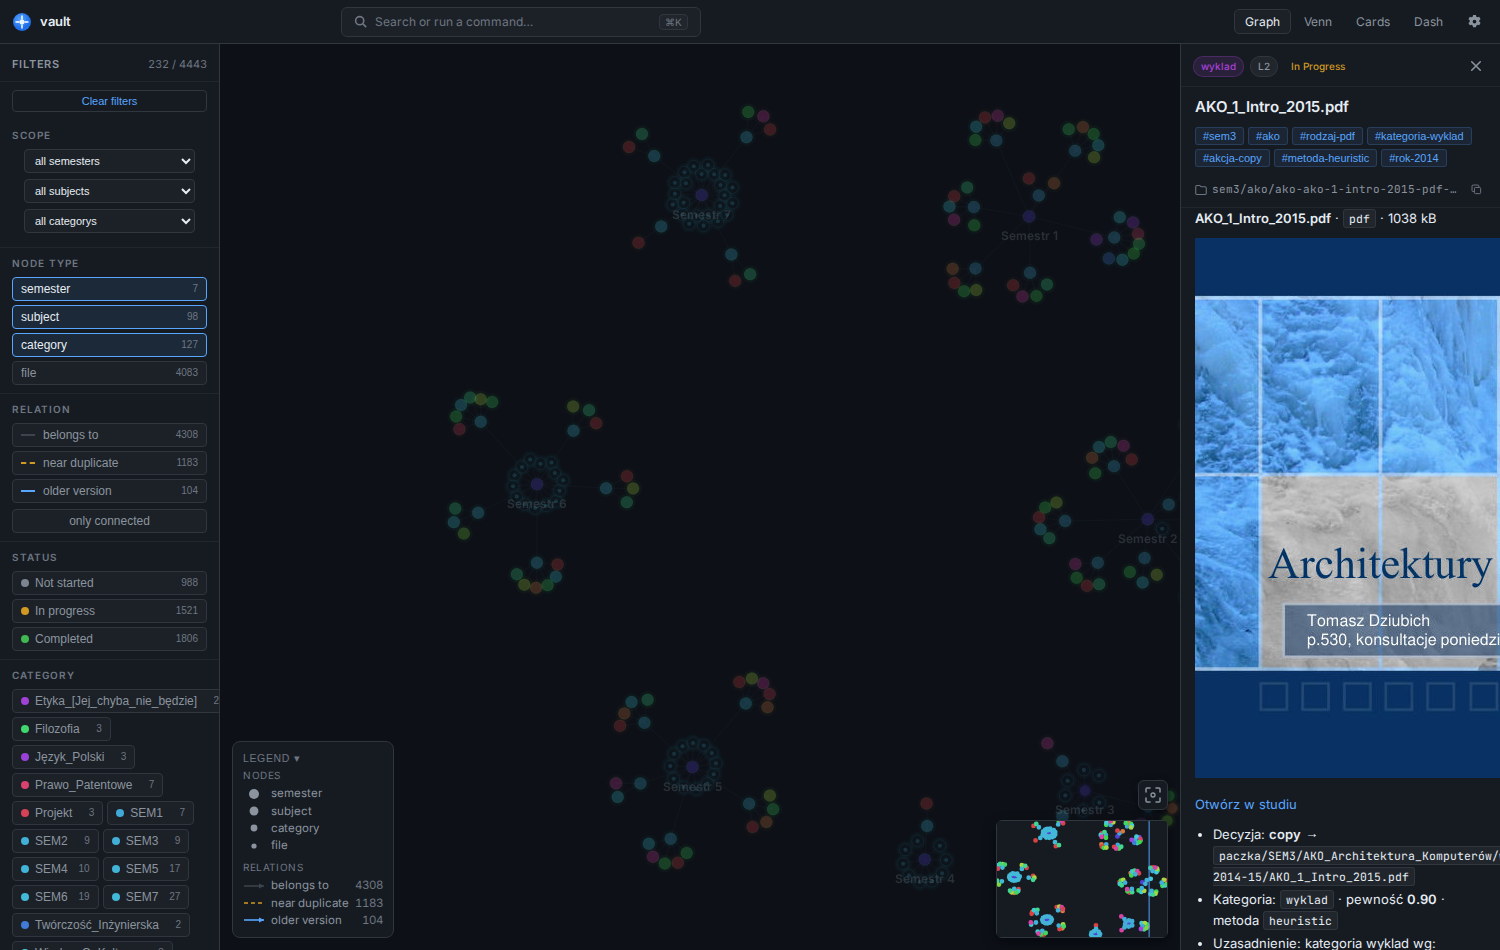
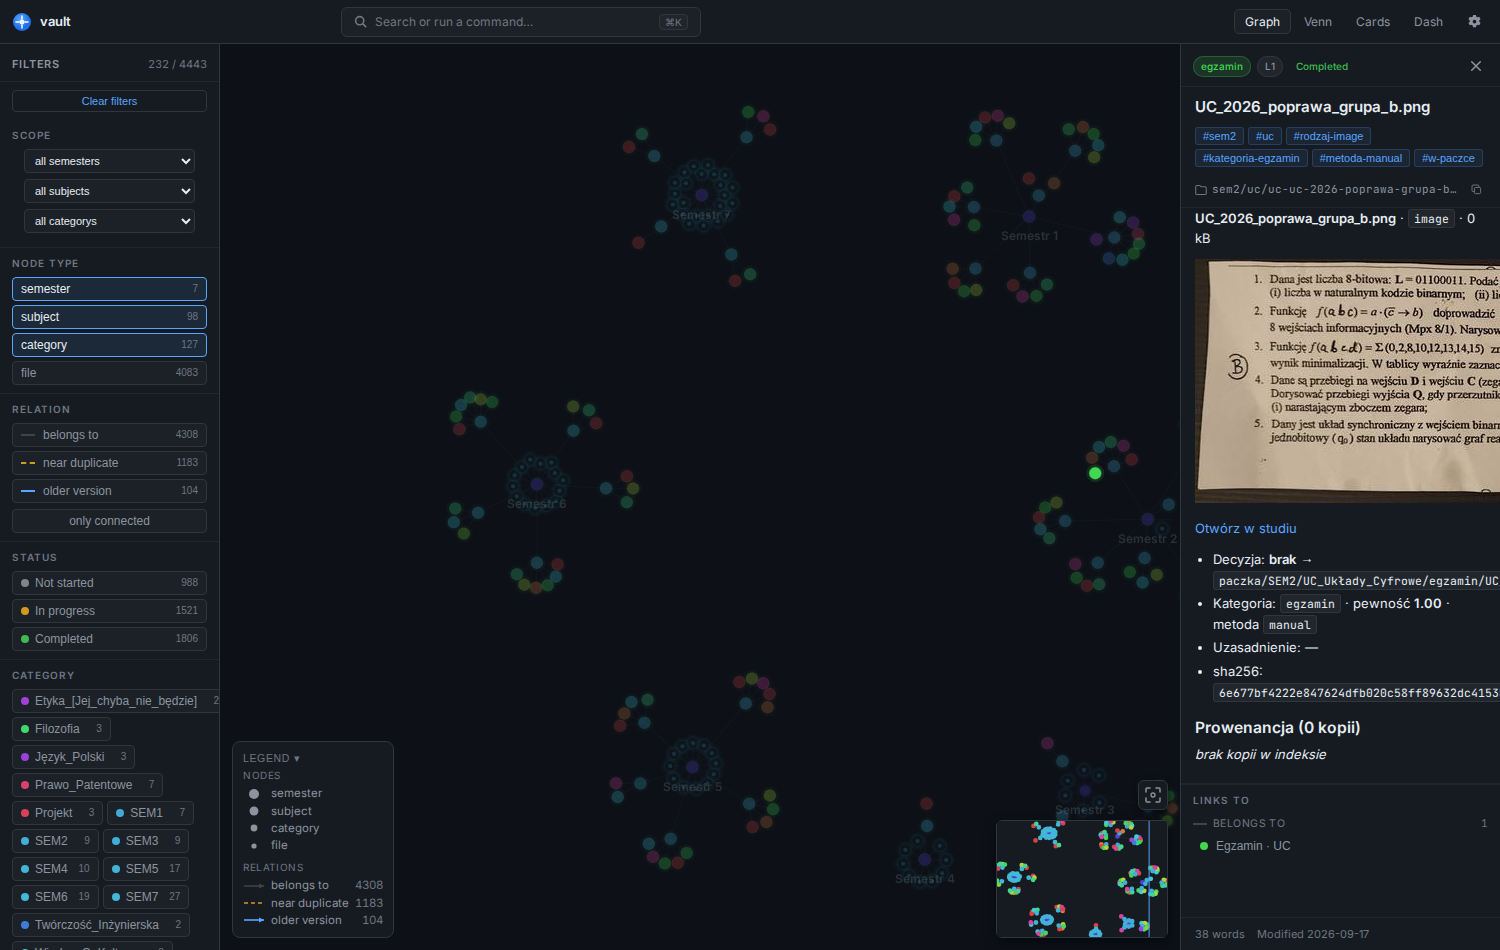
fix(studio): preview material that lives only in the package
Reported from the phone: most previews work, some come up as a broken image.

Not random — exactly the 890 contents with no row in `files`, the ones that used
to be titled with a sha prefix. They sit only in the package, and the preview was
looking for the file in the source tree alone. `preview.package_copy` now falls
back to the target path from the decision, through the same containment helper:
an entry climbing out of the package repo is still refused, not read (with a test).
Checked on real data: 6 of 6 previously dead previews now render, including the
`UC_2026_poprawa_grupa_b.png` from the report.

Also: a cut-off text now says so. The graph note ends with `…` and a
"fragment — całość w studiu" line (839 notes), and the preview API returns
`text_truncated`, on which the decision panel adds "… to tylko początek pliku".
Eight lines without that note read like the whole file.

Worth remembering for future preview tests: the fixture owns the shas `a`–`f` × 64,
so reusing one makes `source_copies` return someone else's file and the test checks
something other than its name promises.

Claude-Session: https://claude.ai/code/session_01DJeTgEcmeih3PWGXkw9Fph

Changed region(s): [[0.7973, 0.0611, 1.0, 1.0], [0.7053, 0.4884, 0.736, 0.5189]]

diff --git a/organizer/studio/web/src/components/TextPreview.svelte b/organizer/studio/web/src/components/TextPreview.svelte
@@ -14,9 +14,11 @@
     language?: string | null;
     /** Nazwa pliku i rodzaj treści — podpis nad tekstem, żeby wiadomo było, co to. */
     label?: string | null;
+    /** Czy to tylko początek pliku. Urwany tekst ma wyglądać na urwany. */
+    truncated?: boolean;
   }
 
-  let { text, language = null, label = null }: Props = $props();
+  let { text, language = null, label = null, truncated = false }: Props = $props();
 
   let html = $state<string | null>(null);
 
@@ -41,6 +43,9 @@
   <pre class="text-head"><code class="hljs"
       >{#if html}{@html html}{:else}{text}{/if}</code
     ></pre>
+  {#if truncated}
+    <p class="cut">… to tylko początek pliku</p>
+  {/if}
 </div>
 
 <style>
@@ -71,6 +76,11 @@
     text-transform: uppercase;
     letter-spacing: 0.06em;
     font-size: 10px;
+  }
+  .cut {
+    margin: 0;
+    color: var(--muted);
+    font-size: 11px;
   }
   .text-head {
     margin: 0;

diff --git a/organizer/studio/web/src/components/DecisionPanel.svelte b/organizer/studio/web/src/components/DecisionPanel.svelte
@@ -320,6 +320,7 @@
             text={preview.text_head}
             language={preview.text_language}
             label={current.filename ?? preview.content_kind}
+            truncated={preview.text_truncated}
           />
         {:else if preview && preview.preview_kind === 'none'}
           <div class="no-preview">
@@ -338,7 +339,11 @@
         {#if preview?.text_head && imageUrl}
           <details class="text-toggle">
             <summary>głowa tekstu</summary>
-            <TextPreview text={preview.text_head} language={preview.text_language} />
+            <TextPreview
+              text={preview.text_head}
+              language={preview.text_language}
+              truncated={preview.text_truncated}
+            />
           </details>
         {/if}
       </figure>

diff --git a/organizer/studio/web/src/lib/api.ts b/organizer/studio/web/src/lib/api.ts
@@ -249,6 +249,8 @@ export interface Preview {
   has_text: boolean;
   /** Język do kolorowania składni albo `null` — ustala backend, nie widok. */
   text_language: string | null;
+  /** Czy pokazany tekst jest urwany — widok ma to powiedzieć, nie udawać całości. */
+  text_truncated: boolean;
   has_image: boolean;
   /** Co widok ma narysować: 'page' (strona PDF), 'image', 'text', 'none'.
    *  Rodzaj ustala backend — front nie zgaduje po rozszerzeniu. */

diff --git a/organizer/tests/test_studio_preview.py b/organizer/tests/test_studio_preview.py
@@ -126,6 +126,61 @@ def workspace(tmp_path):
 
 
 @pytest.fixture
+def packaged(workspace):
+    """Treść, która leży WYŁĄCZNIE w paczce — bez ani jednego wiersza w `files`.
+
+    Tak wygląda 890 pozycji ground truth: materiał trafił do paczki dawno temu i nigdy
+    nie był indeksowany jako plik źródłowy. W grafie ich podgląd był zepsutym obrazkiem,
+    bo szukaliśmy pliku wyłącznie w drzewie źródeł (zgłoszone 2026-09-24).
+    """
+    # Własne sha, nieużywane przez pozostałe pozycje fixture'u — inaczej `source_copies`
+    # zwróciłoby cudzy plik i test badałby coś innego, niż nazwa obiecuje.
+    sha = "9" * 64
+    cel = "paczka/SEM3/AKO_X/egzamin/skan.png"
+    (workspace.target_repo / "paczka" / "SEM3" / "AKO_X" / "egzamin").mkdir(parents=True)
+    Image.new("RGB", (48, 24), (12, 34, 56)).save(workspace.target_repo / cel)
+
+    conn = db.connect(workspace.work_db)
+    db.upsert_content(conn, {"sha256": sha, "content_kind": "image"})
+    db.upsert_classification(conn, {
+        "sha256": sha, "semester": 3, "subject_key": "AKO", "category": "egzamin",
+        "target_relative_path": cel, "is_outdated": 0, "classification_method": "manual",
+        "confidence": 1.0, "run_id": "ground_truth", "decided_at": "2026-09-20T00:00:00Z",
+    })
+    conn.commit()
+    conn.close()
+    return sha
+
+
+def test_material_living_only_in_the_package_still_has_a_preview(client, packaged) -> None:
+    body = client.get(f"/api/preview/{packaged}").json()
+
+    assert body["preview_kind"] == "image"
+    assert body["has_image"] is True
+
+    response = client.get(f"/api/preview/{packaged}/image")
+    assert response.status_code == 200
+    assert response.headers["content-type"].startswith("image/")
+
+
+def test_a_target_path_climbing_out_of_the_package_is_refused(
+    client, packaged, workspace
+) -> None:
+    """Ścieżka docelowa to też dane z bazy — przechodzi przez ten sam containment."""
+    (workspace.target_repo.parent / "sekret.png").write_bytes(b"nie czytaj")
+    conn = db.connect(workspace.work_db)
+    conn.execute(
+        "UPDATE classifications SET target_relative_path = ? WHERE sha256 = ?",
+        ("../sekret.png", packaged),
+    )
+    conn.commit()
+    conn.close()
+
+    assert client.get(f"/api/preview/{packaged}").json()["has_image"] is False
+    assert client.get(f"/api/preview/{packaged}/image").status_code == 404
+
+
+@pytest.fixture
 def client(workspace):
     app = create_app(workspace.work_db, paths=workspace, subjects=SUBJECTS, thresholds=THRESHOLDS)
     with TestClient(app) as test_client:
@@ -269,3 +324,18 @@ def test_a_binary_artifact_is_not_pretended_to_be_text(client) -> None:
 
     assert body["preview_kind"] == "none"
     assert body["has_text"] is False and body["text_head"] is None
+
+
+def test_a_cut_off_text_says_that_it_is_cut_off(client, workspace) -> None:
+    """Osiem linijek bez adnotacji czyta się jak cały plik — a to jest wycinek."""
+    dlugi = "linia tekstu\n" * 900
+    (workspace.work_extracted_text / f"{SHA['a']}.txt").write_text(dlugi, encoding="utf-8")
+
+    body = client.get(f"/api/preview/{SHA['a']}").json()
+
+    assert body["has_text"] is True
+    assert body["text_truncated"] is True
+
+
+def test_a_short_text_is_not_marked_as_cut_off(client) -> None:
+    assert client.get(f"/api/preview/{SHA['a']}").json()["text_truncated"] is False

diff --git a/organizer/studio/api/queries.py b/organizer/studio/api/queries.py
@@ -718,6 +718,9 @@ def preview(
     head = preview_lib.text_head(paths, row["extracted_text_path"], limit)
     copies = preview_lib.source_copies(conn, sha256)
     source = preview_lib.first_existing_copy(paths, copies)
+    # Materiał bez kopii w źródłach, ale obecny w paczce: podgląd bierze go stamtąd.
+    if source is None:
+        source = preview_lib.package_copy(paths, conn, sha256)
 
     has_image = source is not None and (kind in preview_lib.PAGE_KINDS or kind in preview_lib.IMAGE_KINDS)
     # Bez wyekstrahowanego tekstu sięgamy do samego pliku, o ile to tekst: extract
@@ -740,13 +743,19 @@ def preview(
         "content_kind": row["content_kind"],
         "text_head": head,
         "has_text": head is not None,
+        # Widok ma pokazać, że to WYCINEK: bez tego osiem linijek wygląda jak cały plik.
+        "text_truncated": bool(head is not None and len(head) >= limit),
         "text_language": preview_lib.text_language(source.name, kind) if source is not None else None,
         "has_image": has_image,
         "preview_kind": preview_kind,
         "has_thumbnail": (paths.work_thumbnails / f"{sha256}.jpg").is_file(),
         "pages": preview_lib.page_count(source) if (source and kind in preview_lib.PAGE_KINDS) else None,
         "copies": len(copies),
-        "source_path": None if source is None else f"{copies[0][0]}/{copies[0][1]}",
+        # Treść z samej paczki nie ma kopii w źródłach — pokazujemy wtedy, skąd
+        # NAPRAWDĘ wzięliśmy podgląd, zamiast wywracać się na pustej liście.
+        "source_path": f"{copies[0][0]}/{copies[0][1]}" if copies else (
+            None if source is None else str(source.relative_to(paths.target_repo))
+        ),
         "ocr_done": bool(row["ocr_done"]),
     }
 
@@ -772,6 +781,8 @@ def preview_image(
         return None
     kind = str(row["content_kind"] or "")
     source = preview_lib.first_existing_copy(paths, preview_lib.source_copies(conn, sha256))
+    if source is None:
+        source = preview_lib.package_copy(paths, conn, sha256)
     if source is None:
         return None
     if kind in preview_lib.PAGE_KINDS:

diff --git a/organizer/scripts/orglib/preview.py b/organizer/scripts/orglib/preview.py
@@ -138,6 +138,27 @@ def text_head(paths: config.Paths, relative_path: str | None, limit: int) -> str
         return None
 
 
+def package_copy(paths: config.Paths, conn: sqlite3.Connection, sha256: str) -> Path | None:
+    """Kopia treści leżąca w PACZCE, wskazana przez decyzję.
+
+    890 pozycji ground truth nie ma ani jednego wiersza w ``files``: materiał trafił do
+    paczki dawno temu i nikt nie indeksował go jako pliku źródłowego. Bez tej ścieżki
+    ich podgląd w grafie był zepsutym obrazkiem, choć plik leży na dysku i wolno go
+    przeczytać. Ścieżka z bazy przechodzi przez ten sam containment co reszta — wpis
+    prowadzący poza repo paczki to błąd danych, nie prośba o odczyt.
+    """
+    row = conn.execute(
+        "SELECT target_relative_path FROM classifications WHERE sha256 = ? "
+        "AND target_relative_path IS NOT NULL "
+        "ORDER BY (run_id = 'ground_truth') DESC LIMIT 1",
+        (sha256,),
+    ).fetchone()
+    if row is None or not row["target_relative_path"]:
+        return None
+    candidate = config.resolve_within(paths.target_repo, str(row["target_relative_path"]))
+    return candidate if candidate is not None and candidate.is_file() else None
+
+
 def source_copies(conn: sqlite3.Connection, sha256: str) -> list[tuple[str, str]]:
     """Wszystkie materializacje treści jako pary (paczka, ścieżka względem paczki)."""
     rows = conn.execute(

diff --git a/organizer/scripts/synapse_export.py b/organizer/scripts/synapse_export.py
@@ -118,8 +118,18 @@ def preview_block(sha: str, kind: str, text_head: str | None) -> list[str]:
     if kind in preview.PAGE_KINDS or kind in preview.IMAGE_KINDS:
         lines += [f"![podgląd](/api/preview/{sha}/image?width=720)", ""]
     elif text_head:
-        skrocony = text_head.strip().splitlines()[:8]
-        lines += ["```", *skrocony, "```", ""]
+        wiersze = text_head.strip().splitlines()
+        skrocony = wiersze[:8]
+        # Urwany tekst ma WYGLĄDAĆ na urwany: bez tego czytający bierze osiem linijek
+        # za całą treść pliku (zgłoszone 2026-09-24).
+        urwane = len(wiersze) > 8 or len(text_head) >= PREVIEW_TEXT_CHARS
+        if urwane:
+            skrocony.append("…")
+        lines += ["```", *skrocony, "```"]
+        if urwane:
+            lines += ["_fragment — całość w studiu_", ""]
+        else:
+            lines += [""]
     lines += [f"[Otwórz w studiu](/?sha={sha})", ""]
     return lines
 

diff --git a/organizer/reports/HANDOFF.md b/organizer/reports/HANDOFF.md
@@ -2,6 +2,10 @@
 
 ## Kontekst ręczny
 
+- **Zepsute podglądy w grafie to były treści bez kopii w źródłach (2026-09-24).** Te same 890 pozycji, które wcześniej nazywały się skrótem sha: leżą wyłącznie w paczce, więc `files` nie ma dla nich wiersza, a podgląd szukał pliku tylko w drzewie źródeł. `preview.package_copy` sięga teraz po ścieżkę docelową z decyzji, przez `config.resolve_within` (wpis prowadzący poza repo paczki = odmowa, z testem). Przy okazji `source_path` w odpowiedzi API nie wywraca się już na pustej liście kopii.
+- **Urwany tekst jest oznaczony:** `…` plus „fragment — całość w studiu" w notatce grafu (839 notatek) i `text_truncated` w API, po którym panel decyzji dopisuje „… to tylko początek pliku". Osiem linijek bez adnotacji czyta się jak cały plik.
+- **Pułapka przy pisaniu testów podglądu:** fixture `test_studio_preview` ma treści o sha `a`–`f` × 64; użycie takiego samego sha w nowym teście sprawia, że `source_copies` zwraca CUDZY plik i test bada co innego, niż obiecuje jego nazwa. Nowe pozycje bierz spoza tego zakresu (np. `9` × 64).
+
 - **Kaskada podpisów w grafie jest jednokierunkowa (2026-09-24).** Poziom kontenerów, który nie zmieścił się w całości, milkł i ZWALNIAŁ miejsce plikom — więc przy oddaleniu widać było nazwy plików bez nazwy skupiska, do którego należą. Teraz poziom, który nie wszedł, zatrzymuje wszystkie drobniejsze. Zmierzone w zakresie kategorii: podpis kategorii zawsze, nazwy plików od zoomu 0,277.
 - **Notatka pliku w grafie pokazuje materiał, nie tylko metadane.** Obraz albo pierwsza strona PDF-a przez `/api/preview/<sha>/image`, dla tekstu kilka pierwszych linijek, i odnośnik `Otwórz w studiu` → `/?sha=…` (studio otwiera wtedy zakładkę „szukaj" na tej treści; parametr jest walidowany jako sha, bo przychodzi z adresu). Adresy są względne, więc działają tylko wtedy, gdy viewera serwuje studio — czyli tam, gdzie te dane mają sens.
 

diff --git a/organizer/studio/TODO-studio.md b/organizer/studio/TODO-studio.md
@@ -460,6 +460,18 @@ progi znowu byłyby zgadywaniem.
   Głowy tekstu czyta `export()`, nie `build_notes` — ta druga zostaje czystą funkcją nad
   wynikiem zapytań.
 
+## Podgląd materiałów z paczki (2026-09-24)
+
+- **Część podglądów była zepsutym obrazkiem.** Nie losowo: dokładnie te 890 treści, które
+  nie mają wiersza w `files`, bo leżą wyłącznie w paczce. Podgląd szukał pliku tylko
+  w drzewie źródeł. Teraz, gdy tam go nie ma, sięga po ścieżkę docelową z decyzji
+  (`preview.package_copy`) — przez ten sam helper containmentu, więc wpis prowadzący poza
+  repo paczki dalej kończy się odmową, a nie odczytem. Sprawdzone na realnych danych:
+  6/6 wcześniej martwych podglądów działa.
+- **Urwany tekst mówi, że jest urwany.** W notatce grafu kończy się `…` i adnotacją
+  „fragment — całość w studiu" (839 notatek), a API podglądu zwraca `text_truncated`,
+  po którym panel decyzji dopisuje „… to tylko początek pliku".
+
 ## Zależności od potoku
 
 - **B10** `apply.py`, **B11** `verify.py` → S3

diff --git a/organizer/studio/README.md b/organizer/studio/README.md
@@ -323,7 +323,7 @@ Wybór kategorii odsłania jej pliki — 147 egzaminów AKO zamiast 2,5 tysiąca
 przedmioty, przedmiot → kategorie) nie podlegają cięciu długości ani poziomowi szczegółu:
 jest ich kilkanaście, a to one mówią, z czego składa się to, na co patrzysz. Same kontenery
 rysują się na wierzchu, z poświatą i nie schodzą poniżej sześciu pikseli. Kliknięcie węzła pliku pokazuje **sam materiał**: obraz, pierwszą stronę PDF-a albo
-kilka pierwszych linijek tekstu, plus odnośnik „Otwórz w studiu" prowadzący do tej treści
+kilka pierwszych linijek tekstu (oznaczonych jako wycinek), plus odnośnik „Otwórz w studiu" prowadzący do tej treści
 (`/?sha=…` otwiera wyszukiwanie na niej).
 
 Podpisy rozstrzyga jedno

diff --git a/organizer/docs/SYNAPSE.md b/organizer/docs/SYNAPSE.md
@@ -95,7 +95,8 @@ pliku nie są eksportowane.
 
 Treść notatki pliku niesie **podgląd**: obraz albo pierwszą stronę PDF-a
 (`![podgląd](/api/preview/<sha>/image?width=720)`), a dla plików tekstowych kilka
-pierwszych linijek. Na końcu jest odnośnik `[Otwórz w studiu](/?sha=<sha>)`. Adresy są
+pierwszych linijek zakończonych `…` i adnotacją `_fragment — całość w studiu_`, żeby
+urwany tekst wyglądał na urwany. Na końcu jest odnośnik `[Otwórz w studiu](/?sha=<sha>)`. Adresy są
 względne, więc działają wtedy, gdy viewera serwuje studio — czyli tam, gdzie te dane mają
 sens; w upstreamowym demo po prostu ich nie ma.
 
